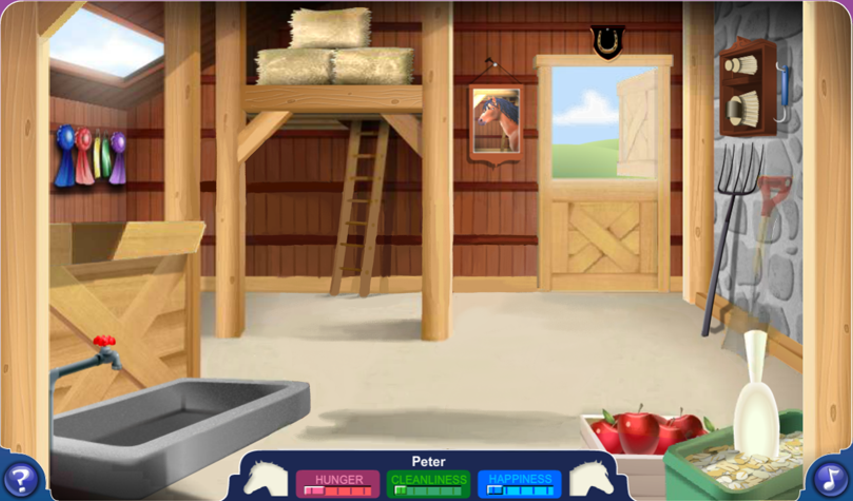
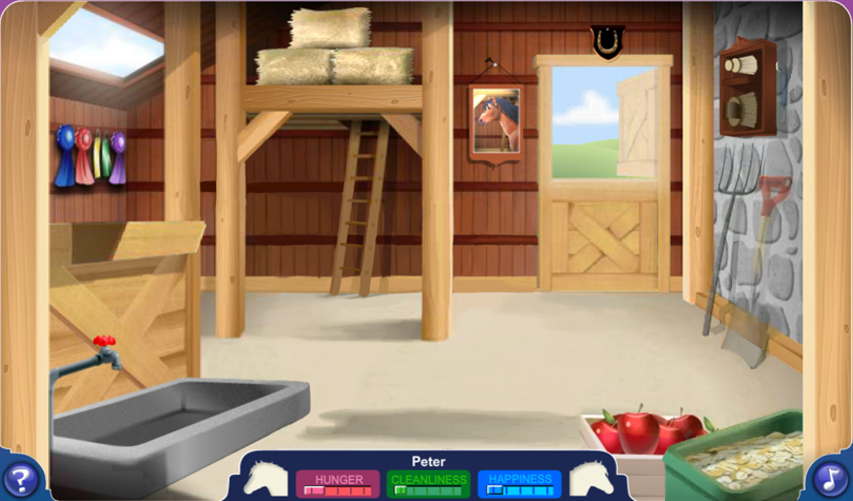
Refactoring and added pitchfork and food bin interaction

Changed region(s): [[0.762, 0.2994, 0.9449, 1.0], [0.8535, 0.1198, 0.9449, 0.2695]]

diff --git a/stable.html b/stable.html
@@ -18,120 +18,211 @@
         <div>
             <script type="text/javascript">
 
-                var config = {
+                hand = {
+                    empty: 'empty',
+                    shovel: 'shovel',
+                    fork: 'fork',
+                    fork_filled: 'fork_filled',
+                    brush: 'brush',
+                    small_brush: 'small_brush',
+                    hoofpick: 'hoofpick',
+                    apple: 'apple',
+                    grain_scoop: 'grain_scoop'
+                }
+                handcurrent = hand.empty;
+                waterfilled = false;
+                foodfilled = false;
+
+                shovel_held_sprite = null
+                fork_held_sprite = null
+                grain_held_sprite = null
+
+                class Example extends Phaser.Scene
+                {
+
+                    preload ()
+                    {
+                        this.load.image('stable', './images/stable/stable-bg.png');
+
+                        this.load.spritesheet('shovel', './images/stable/shovel.png', { frameWidth: 77, frameHeight: 195 });
+                        this.load.image('shovel_held', './images/stable/shovel_held.png');
+                        this.load.spritesheet('fork', './images/stable/fork.png', { frameWidth: 75, frameHeight: 206 });
+                        this.load.spritesheet('fork_held', './images/stable/fork_held.png', { frameWidth: 157, frameHeight: 167 });
+                        this.load.spritesheet('straw1', './images/stable/straw1.png', { frameWidth: 216, frameHeight: 143 });
+                        this.load.spritesheet('straw2', './images/stable/straw2.png', { frameWidth: 180, frameHeight: 126 });
+                        this.load.spritesheet('straw3', './images/stable/straw3.png', { frameWidth: 236, frameHeight: 150 });
+                        this.load.image('straw_bales', './images/stable/straw_bales.png');
+
+                        this.load.spritesheet('trough', './images/stable/trough.png', { frameWidth: 263, frameHeight: 167 });
+                        this.load.spritesheet('food_trough', './images/stable/food.png', { frameWidth: 139, frameHeight: 68 });
+                        this.load.image('grain_bin', './images/stable/grain_bin.png');
+                        this.load.image('grain_scoop', './images/stable/grain_scoop.png');
+                        
+                        this.load.image('brush_held', './images/stable/brush_held.png');
+                        this.load.spritesheet('brush', './images/stable/brush.png', { frameWidth: 39, frameHeight: 44 });
+                        this.load.image('hoofpick_held', './images/stable/hoofpick_held.png');
+                        this.load.spritesheet('hoofpick', './images/stable/hoofpick.png', { frameWidth: 21, frameHeight: 68 });
+                        this.load.spritesheet('horse', './images/stable/horse.png', { frameWidth: 528, frameHeight: 475 });
+                        
+                        this.load.audio('background_music', ['./stable_soundtrack.mp3']);
+                        this.load.audio('shovel_sound', ['./shovel_sound.mp3']);
+                    }
+
+                    create ()
+                    {
+                        const backgroundMusic = this.sound.add('background_music');
+                        backgroundMusic.loop = true; 
+                        backgroundMusic.play();
+
+                        this.add.image(427, 251, 'stable');
+
+                        const straw2 = this.add.sprite(481, 387, 'straw2', 0).setInteractive();
+                        const straw1 = this.add.sprite(315, 380, 'straw1', 0).setInteractive();
+                        const straw3 = this.add.sprite(632, 376, 'straw3', 0).setInteractive();
+                        const straw_bales = this.add.sprite(333, 45, 'straw_bales', 0).setInteractive();
+
+                        const fork = this.add.sprite(735, 240, 'fork', 0).setInteractive({ pixelPerfect: true });
+                        const shovel = this.add.sprite(759, 272, 'shovel', 0).setInteractive({ pixelPerfect: true });
+                        const grain_bin = this.add.image(733, 415, 'grain_bin').setInteractive({ pixelPerfect: true });
+                        const food_trough = this.add.sprite(139, 234, 'food_trough', 0).setInteractive({ pixelPerfect: true });
+
+                        fork_held_sprite = this.add.image(735, 240, 'fork_held').setVisible(false);
+                        shovel_held_sprite = this.add.image(759, 272, 'shovel_held').setVisible(false);
+                        grain_held_sprite = this.add.image(759, 272, 'grain_scoop').setVisible(false);
+
+                        const shovel_sound = this.sound.add('shovel_sound');
+                        
+                        this.input.topOnly = true; // don't allow object to be interacted with when they are lower
+
+                        // trough
+                        const trough = this.add.sprite(181, 418, 'trough', 0).setInteractive();
+                        this.anims.create({
+                            key: 'fill_water',
+                            frames: this.anims.generateFrameNumbers('trough', { frames: [ 1, 2, 3 ] }),
+                            frameRate: 8
+                        });
+
+                        // horse
+                        const horse = this.add.sprite(370, 220, 'horse', 0)
+                        this.anims.create({
+                            key: 'drink_water',
+                            frames: this.anims.generateFrameNumbers('horse', { frames: [ 0, 1, 0 ] }),
+                            frameRate: 1,
+                            delay: 250
+                        });
+
+                        // drink water
+                        trough.on('pointerdown', function (pointer)
+                        {
+                            if (!waterfilled && handcurrent === hand.empty) {
+                                waterfilled = true;
+                                this.play('fill_water');
+                                horse.play('drink_water');
+                            }
+                        });
+                        
+                        shovel.on('pointerdown', function (pointer)
+                        {
+                            set_tool(hand.shovel, shovel)
+                        });
+                        
+                        fork.on('pointerdown', function (pointer)
+                        {
+                            if (handcurrent === hand.empty) {
+                                handcurrent = hand.fork;
+                                this.setFrame(1)
+                            }
+                            else if (handcurrent === hand.fork || handcurrent === hand.fork_filled) {
+                                handcurrent = hand.empty;
+                                this.setFrame(0)
+                            }
+                        });
+
+                        straw_bales.on('pointerdown', function (pointer)
+                        {
+                            if (handcurrent === hand.fork) {
+                                handcurrent = hand.fork_filled
+                            }
+                        });
+
+                        function set_tool(tool, sprite) {
+                            if (handcurrent === hand.empty) {
+                                handcurrent = tool;
+                                sprite.setFrame(1)
+                            }
+                            else if (handcurrent === tool) {
+                                handcurrent = hand.empty;
+                                sprite.setFrame(0)
+                            }
+                        }
+
+                        function clean_straw(straw) {
+                            if (handcurrent === hand.shovel && straw.frame.name === 0) {
+                                straw.setFrame(1);
+                                shovel_sound.play();
+                            }
+                            else if (handcurrent === hand.fork_filled && straw.frame.name === 1) {
+                                straw.setFrame(2);
+                                handcurrent = hand.fork
+                            }
+                        }
+                        straw1.on('pointerdown', function (pointer) {clean_straw(straw1)});
+                        straw2.on('pointerdown', function (pointer) {clean_straw(straw2)});
+                        straw3.on('pointerdown', function (pointer) {clean_straw(straw3)});
+
+                        grain_bin.on('pointerdown', function (pointer)
+                        {
+                            if (!foodfilled && handcurrent === hand.empty) {
+                                handcurrent = hand.grain_scoop
+                                grain_bin.setVisible(false)
+                            }
+                        });
+
+                        food_trough.on('pointerdown', function (pointer)
+                        {
+                            console.log(foodfilled)
+                            if (!foodfilled && handcurrent === hand.grain_scoop) {
+                                handcurrent = hand.empty;
+                                foodfilled = true;
+                                grain_bin.setVisible(true);
+                                this.setFrame(1);
+                            }
+                        });
+                    }
+
+                    update ()
+                    {
+                        const pointer = this.input.activePointer;
+                            
+                        if (handcurrent === hand.shovel) {
+                            shovel_held_sprite.setVisible(true).setPosition(pointer.worldX+15, pointer.worldY-30);
+                        }
+                        else if (handcurrent === hand.fork) {
+                            fork_held_sprite.setFrame(0).setVisible(true).setPosition(pointer.worldX+20, pointer.worldY-20);
+                        }
+                        else if (handcurrent === hand.fork_filled) {
+                            fork_held_sprite.setFrame(1).setVisible(true).setPosition(pointer.worldX+20, pointer.worldY-20);
+                        }
+                        else if (handcurrent === hand.grain_scoop) {
+                            grain_held_sprite.setVisible(true).setPosition(pointer.worldX, pointer.worldY);
+                        }
+                        else {
+                            shovel_held_sprite.setVisible(false);
+                            fork_held_sprite.setVisible(false);
+                            grain_held_sprite.setVisible(false);
+                        }
+                    }
+                }
+
+                
+                const config = {
                     type: Phaser.AUTO,
                     width: 853,
                     height: 501,
-                    scene: {
-                        preload: preload,
-                        create: create
-                    }
+                    scene: Example
                 };
-                
-        
-                var game = new Phaser.Game(config);
-        
-                function preload ()
-                {
-                    this.load.image('stable', './images/stable/stable-bg.png');
-                    this.load.spritesheet('shovel', './images/stable/shovel.png', { frameWidth: 77, frameHeight: 195 });
-                    this.load.spritesheet('straw1', './images/stable/straw1.png', { frameWidth: 216, frameHeight: 143 });
-                    this.load.spritesheet('straw2', './images/stable/straw2.png', { frameWidth: 180, frameHeight: 126 });
-                    this.load.spritesheet('straw3', './images/stable/straw3.png', { frameWidth: 236, frameHeight: 150 });
-                    this.load.spritesheet('trough', './images/stable/trough.png', { frameWidth: 263, frameHeight: 167 });
-                    this.load.spritesheet('horse', './images/stable/horse.png', { frameWidth: 528, frameHeight: 475 });
-                    
-                    this.load.audio('background_music', ['./stable_soundtrack.mp3']);
 
-                }
-        
-                function create ()
-                {
-                    const backgroundMusic = this.sound.add('background_music');
-                    backgroundMusic.loop = true; 
-                    backgroundMusic.play();
-
-                    this.add.image(427, 251, 'stable');
-
-                    const straw2 = this.add.sprite(481, 387, 'straw2', 0).setInteractive({ pixelPerfect: true });
-                    const straw1 = this.add.sprite(315, 380, 'straw1', 0).setInteractive({ pixelPerfect: true });
-                    const straw3 = this.add.sprite(632, 376, 'straw3', 0).setInteractive({ pixelPerfect: true });
-
-                    const shovel = this.add.sprite(759, 272, 'shovel', 0).setInteractive({ pixelPerfect: true });
-
-                    // variables
-                    this.input.topOnly = false; // allow objects to be interacted with, even when under others
-                    const hand = {
-                        empty: 'empty',
-                        shovel: 'shovel',
-                        fork: 'fork',
-                        fork_filled: 'fork_filled',
-                        brush: 'brush',
-                        small_brush: 'small_brush',
-                        hoofpick: 'hoofpick',
-                        apple: 'apple',
-                        grain: 'grain'
-                    }
-                    let handcurrent = hand.empty;
-                    let waterfilled = false;
-
-                    // trough
-                    const trough = this.add.sprite(181, 418, 'trough', 0).setInteractive({ pixelPerfect: true });
-                    this.anims.create({
-                        key: 'fill_water',
-                        frames: this.anims.generateFrameNumbers('trough', { frames: [ 1, 2, 3 ] }),
-                        frameRate: 8
-                    });
-
-                    // horse
-                    const horse = this.add.sprite(370, 220, 'horse', 0)
-                    this.anims.create({
-                        key: 'drink_water',
-                        frames: this.anims.generateFrameNumbers('horse', { frames: [ 0, 1, 0 ] }),
-                        frameRate: 1,
-                        delay: 250
-                    });
-
-                    // drink water
-                    trough.on('pointerdown', function (pointer)
-                    {
-                        if (!waterfilled && handcurrent === hand.empty) {
-                            waterfilled = true;
-                            this.play('fill_water');
-                            horse.play('drink_water');
-                        }
-                    });
-                    // trough.on('pointermove', function (pointer) {
-                    //     if (!waterfilled && handcurrent === hand.empty){
-                    //         this.preFX.addGlow(0xffffff, 0, 0, false);
-                    //     }
-                    // });
-
-                    
-                    shovel.on('pointerdown', function (pointer)
-                    {
-                        if (handcurrent === hand.empty) {
-                            handcurrent = hand.shovel;
-                            this.setFrame(1)
-                        }
-                        else if (handcurrent === hand.shovel) {
-                            handcurrent = hand.empty;
-                            this.setFrame(0)
-                        }
-                    });
-
-                    function clean_straw(straw) {
-                        console.log(handcurrent + straw.frame.name)
-                        if (handcurrent === hand.shovel && straw.frame.name === 0) {
-                            straw.setFrame(1);
-                        }
-                    }
-
-                    straw1.on('pointerdown', function (pointer) {clean_straw(straw1)});
-                    straw2.on('pointerdown', function (pointer) {clean_straw(straw2)});
-                    straw3.on('pointerdown', function (pointer) {clean_straw(straw3)});
-
-                }
+                const game = new Phaser.Game(config);
         
             </script>
         </div>

diff --git a/readme.md b/readme.md
@@ -1,3 +1,44 @@
 References:
 - https://www.youtube.com/watch?v=uaQ2FjKgHKQ&t=627s - has music off
-- https://www.youtube.com/watch?v=DVlLQOMo2Ow - has some of the animations (played all available in menu for classic horses) and shows the whole screen
+- https://www.youtube.com/watch?v=DVlLQOMo2Ow - has some of the animations (played all animations available in menu for classic horses) and shows the whole screen
+- https://codeshack.io/images-sprite-sheet-generator/ to make sprite sheets from individual images
+
+Progress:
+- [ ] basic functionality
+  - [x] drink water
+  - [x] remove dirty straw
+  - [x] add new straw
+  - [ ] brush
+  - [ ] small brush
+  - [ ] hoofpick
+  - [x] food
+  - [ ] apple
+  - [ ] click card for positive message
+  - [ ] click horseshoe for good luck
+  - [ ] music on/off
+  - [ ] track hunger, cleanliness, happiness
+  - [ ] glow to show which objects can be interacted with
+- [ ] animations
+  - *horse animations should be made to work with the body in parts (using spine) to make adding multiple horses easier*
+  - [ ] eye blink
+  - [ ] idle
+  - [ ] drink
+  - [ ] rear
+- [ ] textures
+  - [ ] horse
+    - [ ] cleanliness stages (see if this can be overlaid on top of horse)
+    - [ ] peter
+    - [ ] any other land horses in the wiki
+  - [ ] items
+    - [ ] ...?
+- [ ] sounds
+  - [x] background music
+  - [ ] horse movement
+  - [ ] pour water and drink
+  - [ ] pick up grain
+  - [ ] pour grain
+  - [ ] pick up apple
+  - [ ] feed apple
+  - [x] use shovel
+  - [ ] pick up straw
+  - [ ] place straw
